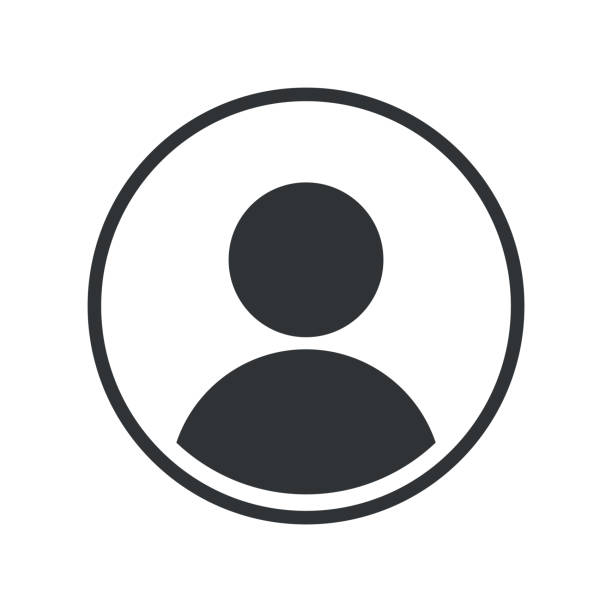
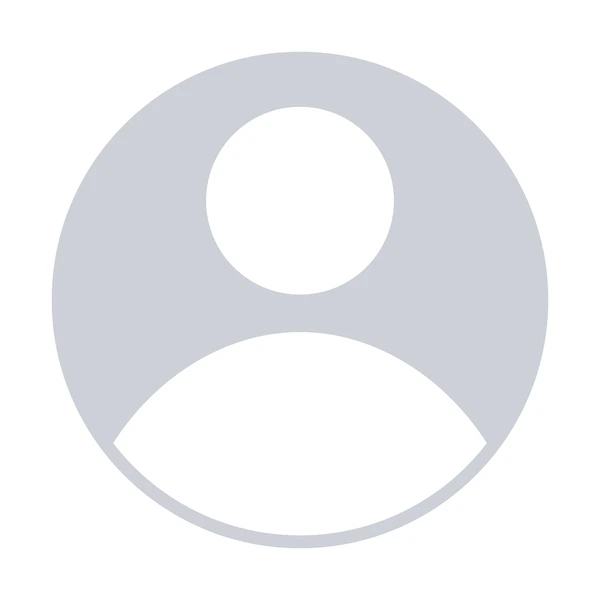
image upload api complete

diff --git a/frontend/src/pages/Home.jsx b/frontend/src/pages/Home.jsx
@@ -1,9 +1,36 @@
 import React from 'react'
 import Nav from "../components/Nav"
+import dp from "../assets/default-profile.jpg"
+import { FaPlus } from "react-icons/fa6";
+import { CiCamera } from "react-icons/ci";
+import { useContext } from 'react';
+import { userDataContext } from '../context/UserContext';
 const Home = () => {
+  let {userData} = useContext(userDataContext)
   return (
-    <div className='w-full min-h-[100vh] bg-[#f0efe7]'>
+    <div className='relative w-full min-h-[100vh] bg-[#f0efe7] pt-[100px]
+    flex flex-col lg:flex-row items-start justify-center gap-[20px] px-[20px]'>
       <Nav></Nav>
+      <div className='p-[10px] rounded-lg lg:w-[25%] w-full  min-h-[200px] bg-white shadow-lg relative'>
+        {/* background image */}
+        <div className='w-full h-[100px] bg-gray-400 rounded overflow-hidden 
+        flex items-center justify-center relative  cursor-pointer'>
+          {/* <img src="" alt="background-image" className='w-full' /> */}
+          <CiCamera className='absolute top-[20px] right-[20px] w-[25px] h-[25px] text-gray-800 font-extrabold '/>
+        </div>
+        {/* dp image */}
+        <div className=' cursor-pointer absolute top-[65px] left-[35px] w-[70px] h-[70px] overflow-hidden rounded-full items-center justify-center'>
+          <img src={dp} alt="profile" className='w-full h-full'/>
+        </div>
+        <div className='cursor-pointer absolute top-[105px] left-[90px]  text-[#2dc0ff] text-xl font-extrabold'>
+          <FaPlus />
+        </div>
+        <div className='mt-[30px] pl-[20px]'>
+          <div className='text-[19px] font-semibold text-gray-700'> {`${userData?.firstName} ${userData?.lastName}`}</div>
+        </div>
+      </div>
+      <div className='lg:w-[50%] w-full  min-h-[200px] bg-white shadow-lg'></div>
+      <div className='lg:w-[25%] w-full  min-h-[200px] bg-white shadow-lg'></div>
     </div>
   )
 }

diff --git a/backend/config/cloudinary.js b/backend/config/cloudinary.js
@@ -1,0 +1,25 @@
+const cloudinary = require('cloudinary').v2;
+const fs = require("fs")
+
+const uploadOnCloudinary = async(filePath)=>{
+    cloudinary.config({ 
+        cloud_name: process.env.CLOUDINARY_CLOUD_NAME, 
+        api_key: process.env.CLOUDINARY_API_KEY, 
+        api_secret: process.env.CLOUDINART_API_SECRET
+    });
+
+    try {
+        if(!filePath){
+            return null
+        }
+        const uploadResult = cloudinary.uploader.upload(filePath)
+        //delete the file from backend
+        fs.unlinkSync(filePath)
+        return uploadResult.secure_url
+    } catch (error) {
+        fs.unlinkSync(filePath)
+        console.log(error)
+    }
+}
+
+module.exports = uploadOnCloudinary